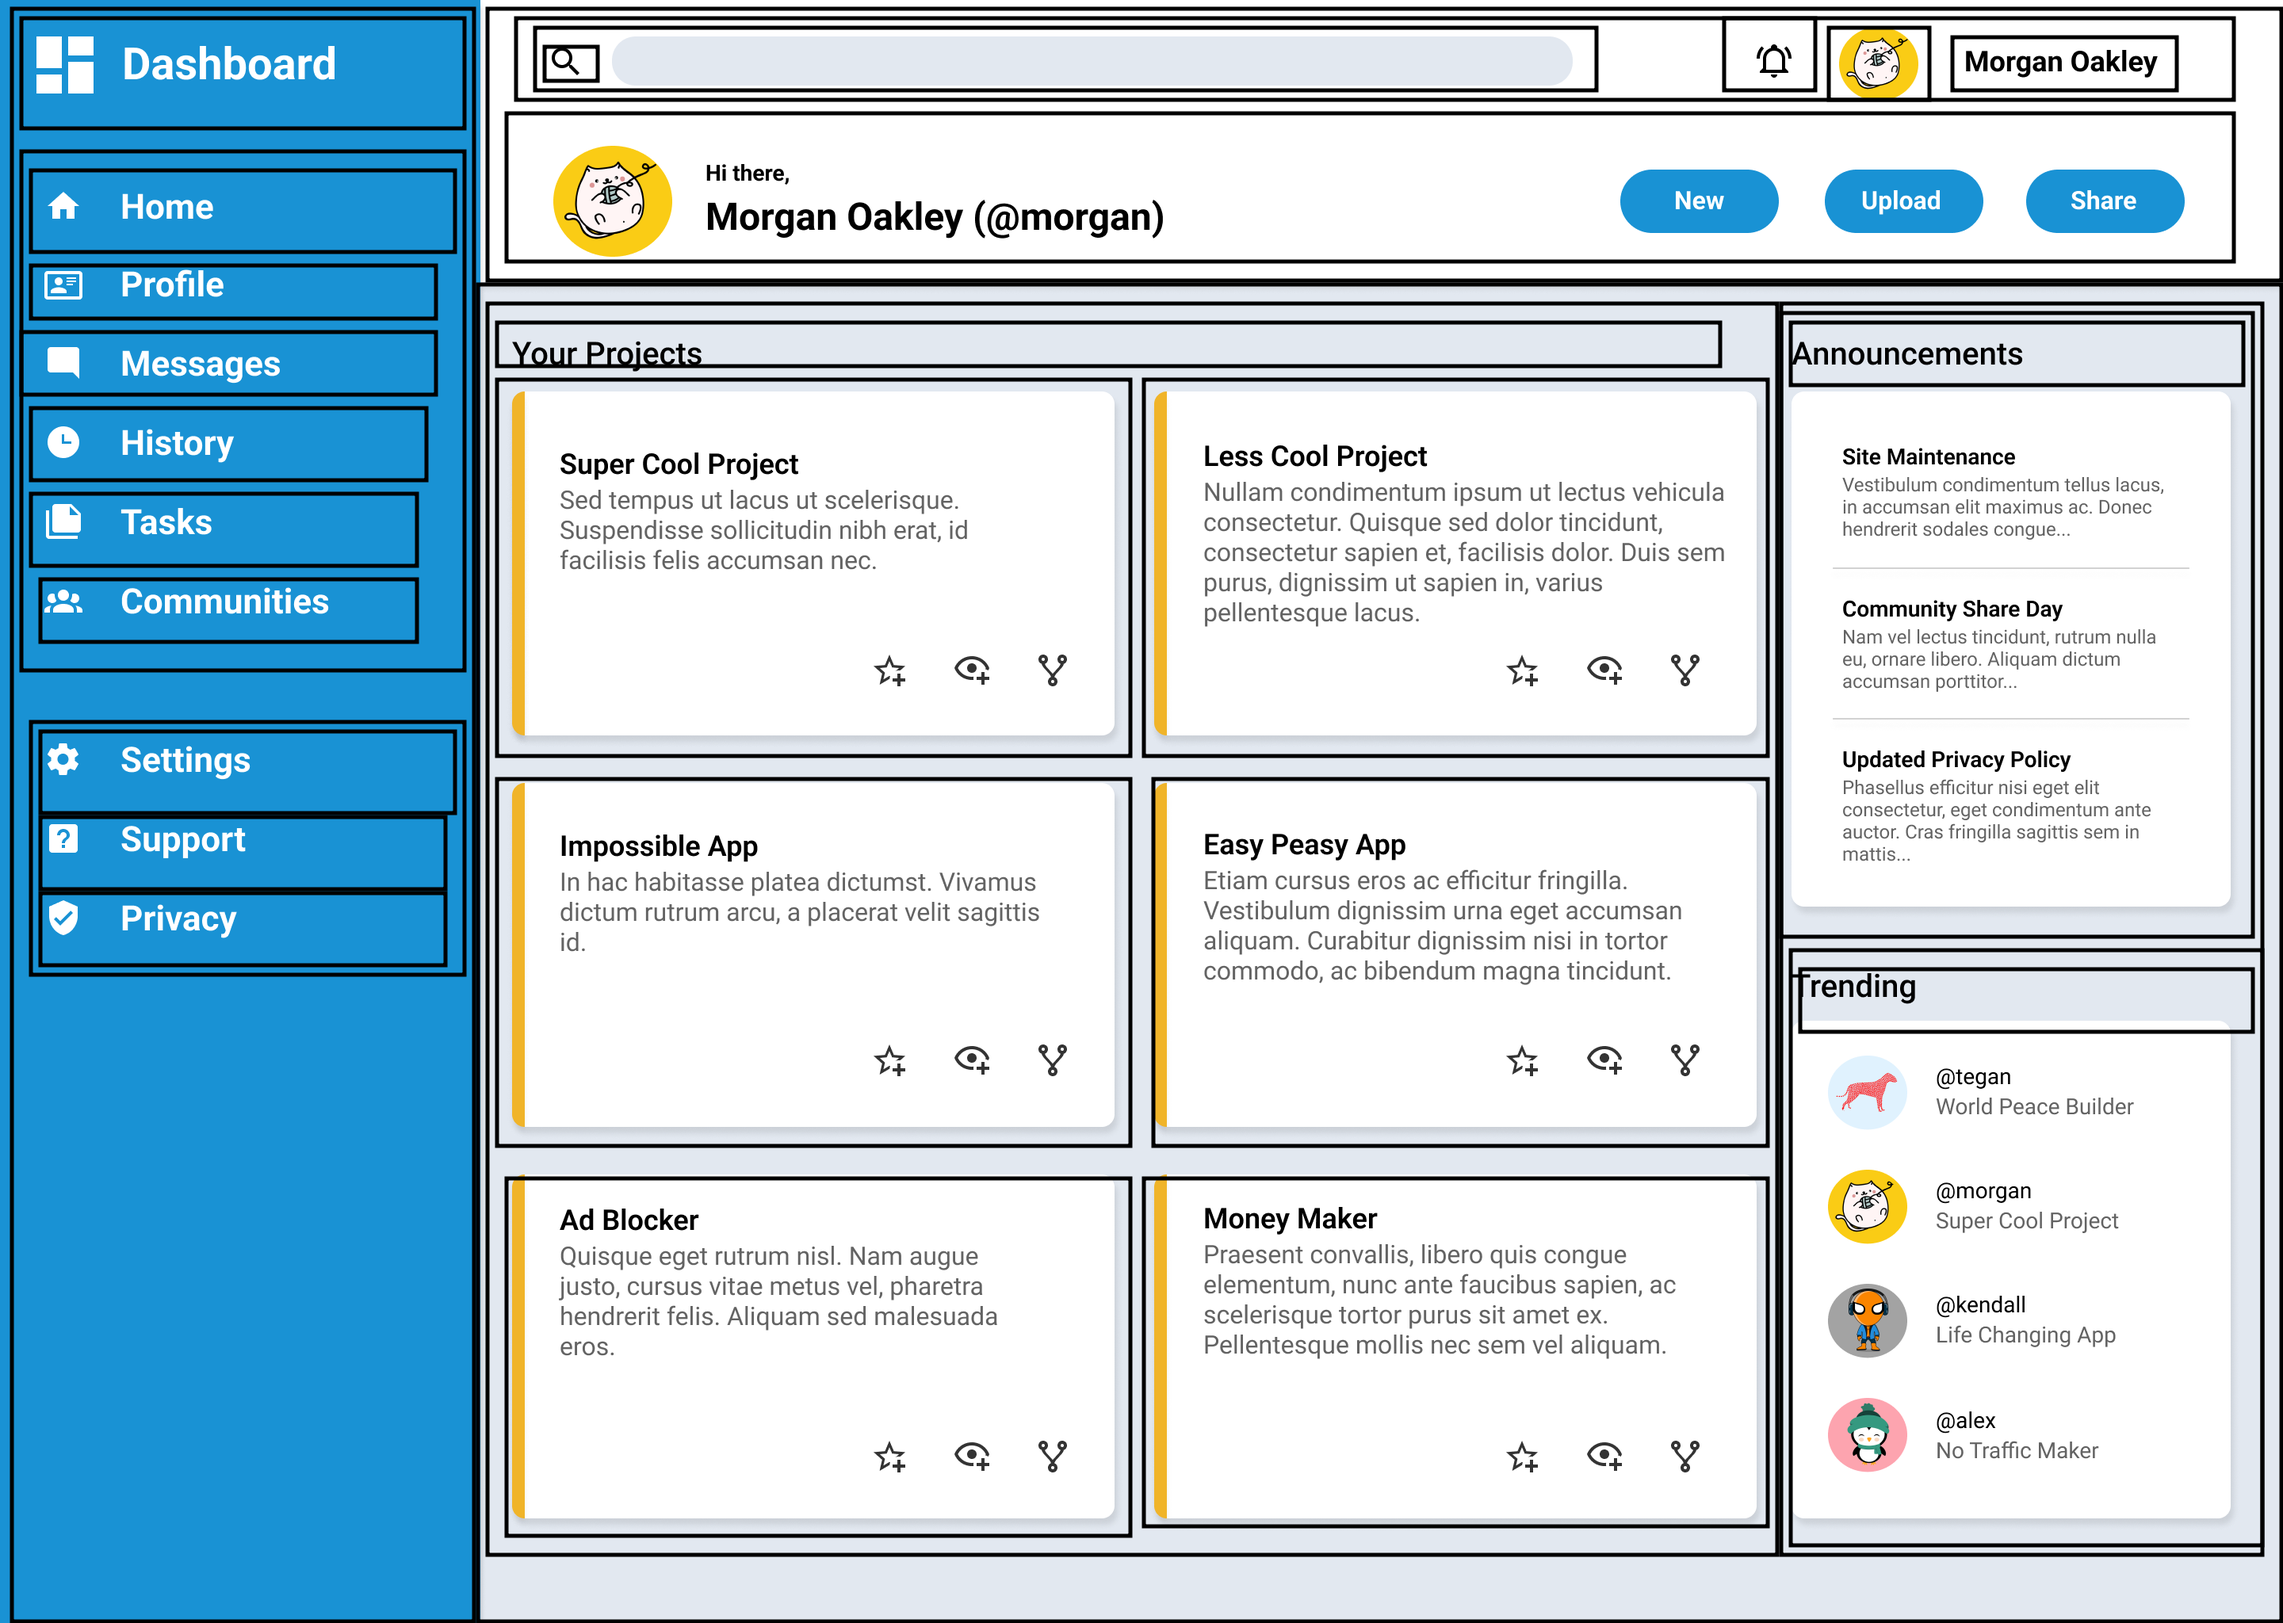
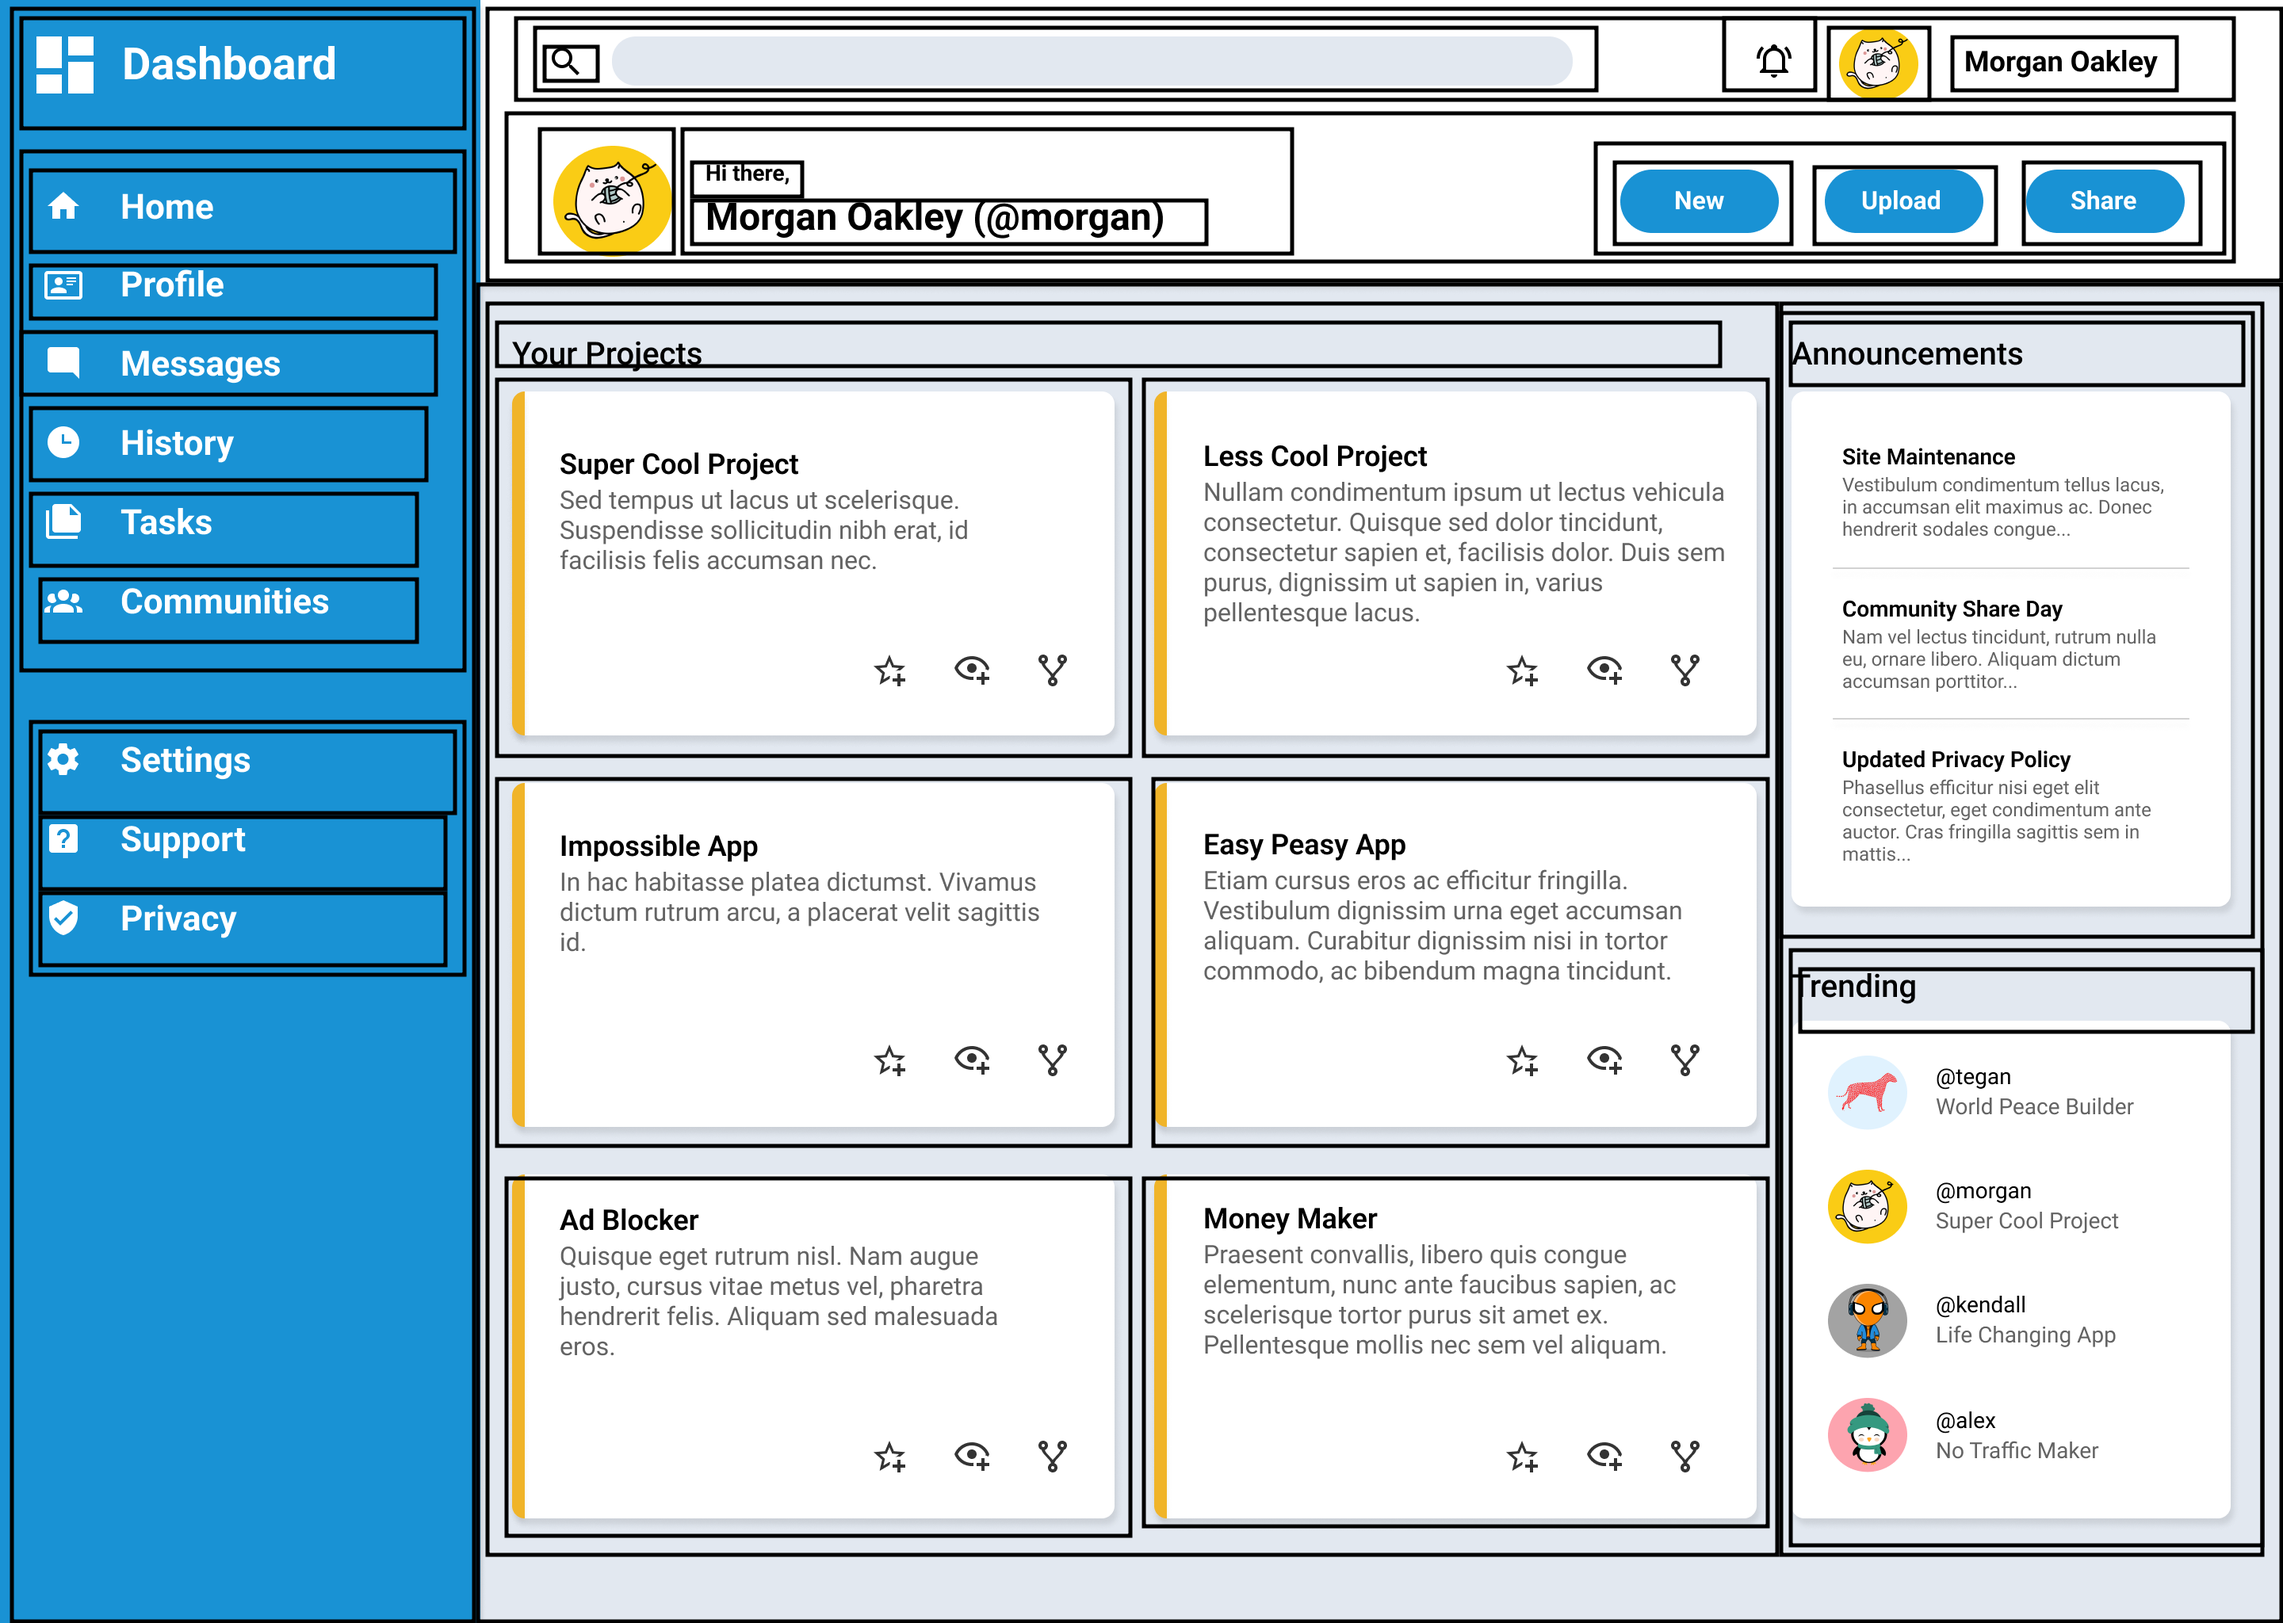
Finish header

Changed region(s): [[0.6875, 0.0938, 0.9688, 0.1562], [0.2812, 0.0625, 0.5312, 0.1562]]

diff --git a/style.css b/style.css
@@ -1,10 +1,9 @@
 body {
     margin: 0;
+    --background-color: rgb(157, 82, 228); 
 }
 
 .layout {
-    height: 100vh;
-    width:100vw;
     display:grid;
     grid-template: 1fr 4fr / 1fr 5fr;
 }
@@ -12,7 +11,7 @@ body {
 .sidebar {
     grid-column: 1;
     grid-row: 1 / 3;
-    background-color: darkorchid;
+    background-color: var(--background-color);
     display: grid;
     grid-template-columns: 1fr;
     grid-template-rows: 1fr 2fr 1fr;
@@ -41,10 +40,16 @@ body {
     padding:4px;
 }
 
+.logo > h1,
+.sidebaritems > .item > div, 
+.sidebarsettings > .item > div {
+    color: white;
+    text-shadow: 2px 1px #00000046;
+}
+
 .logo > img {
     height: 3em;
     width: 3em;
-    justify-self: end;
 }
 
 .logo > h1 {
@@ -66,15 +71,141 @@ body {
 }
 
 .sidebaritems > .item > img, 
-.sidebarsettings > .item > img {
+.sidebarsettings > .item > img,
+.logo > img {
     justify-self: center;
+    filter: invert(100%);
+    -webkit-filter: invert(100%);
 }
 
 .header {
     background-color: azure;
+    display: grid;
+    grid-template: 1fr 1fr / 1fr;
+}
+
+.topbar {
+    display: grid;
+    grid-template-columns: 3fr 1fr;
+    gap: 130px;
+    justify-content: space-between;
+}
+
+.topbar > div {
+    display: grid;
+    align-content: center;
+}
+
+.topbar > .search {
+    grid-template-columns: 1fr 9fr;
+    padding-right: 160px;
+    gap: 10px;
+}
+
+.search > img {
+    justify-self: end;
+}
+
+.search > input {
+    background-color: lightgray;
+    border-radius: 8px;
+    border: 0px;
+    padding-left: 10px;
+}
+
+.search > input:focus {
+    outline: 1px solid black;
+}
+
+.topbar > .userdetails {
+    grid-template-columns: 1fr 1fr 2.5fr;
+}
+
+.userdetails > .icon {
+    height: 40px;
+    border-radius: 50%;
+    align-self: center;
+}
+
+.userdetails > img {
+    justify-self: center;
+}
+
+.userdetails > .notif,
+.userdetails > div {
+    align-self: center;
+}
+
+.userdetails > div {
+    white-space: nowrap;
+}
+
+.usertop {
+    display: grid;
+    grid-template-columns: 3fr 1fr;
+    justify-content: space-between;
+}
+
+.usertop > .userstuff {
+    display: grid;
+    grid-template-columns: 1fr 11fr;
+    align-items: center;
+    gap: 20px;
+}
+
+.userstuff > div > h3 {
+    margin-top: 0;
+}
+
+.userstuff > div > p {
+    margin-bottom: 0px;
+}
+
+.userstuff > img {
+    height: 50px;
+    border-radius: 50%;
+    justify-self: end;
+}
+
+.usertop > .buttons {
+    display: grid;
+    grid-template-columns: 1fr 1fr 1fr;
+    gap: 25px;
+    padding-right: 20px;
+}
+
+.usertop > .buttons > button {
+    background-color: var(--background-color);
+    border-radius: 25px;
+    height: 50px;
+    width: 100px;
+    align-self: center;
+    color: white;
+    border: 0px;
+    font-weight: bold;
 }
 
 .content {
     background-color: aquamarine;
+    display: grid;
+    grid-template-columns: 3fr 1fr;
+}
+
+.content > .community {
+    display: grid;
+    grid-template-columns: 1fr;
+    grid-template-rows: repeat(auto-fit, 300px);
+}
+
+.projectholder {
+    display: grid;
+    grid-template-columns: 1fr 1fr;
+    grid-template-rows: repeat(auto-fill, 150px);
+    gap: 30px;
+}
+
+.project {
+    background-color: white;
+    height: 200px;
 }
 

diff --git a/index.html b/index.html
@@ -29,12 +29,62 @@
 
 
             <div class="header">
+                <div class="topbar">
+
+                    <div class="search">
+                        <img src="./icons/magnify.png">
+                        <input type="text">
+                    </div>
+                    <div class="userdetails">
+                        <img class="notif" src="./icons/bell-ring.png">
+                        <img class="icon" src="./profiles/1.png">
+                        <div>Morgan Oakley</div>
+                    </div>
+                </div>
+
+                <div class="usertop">
+                    <div class="userstuff">
+                        <img src="./profiles/1.png">
+                        <div>
+                            <p>Hi there,</p>
+                            <h3>Morgan Oakley (@morgan)</h3>
+                        </div>
+                    </div>
+
+                    <div class="buttons">
+                        <button>New</button>
+                        <button>Upload</button>
+                        <button>Share</button>
+                    </div>
+
+                </div>
 
 
             </div>
 
 
             <div class="content">
+                <div class="yourprojects">
+                    <h4>Your Projects</h4>
+                    <div class="projectholder">
+                        <div class="project"></div>
+                        <div class="project"></div>
+                        <div class="project"></div>
+                        <div class="project"></div>
+                        <div class="project"></div>
+                        <div class="project"></div>
+                    </div>
+
+                </div>
+
+                <div class="community">
+                    <div class="communitytab">
+                        <h4>Announcements</h4>
+                    </div>
+                    <div class="communitytab">
+                        <h4>Trending</h4>
+                    </div>
+                </div>
 
 
             </div>
